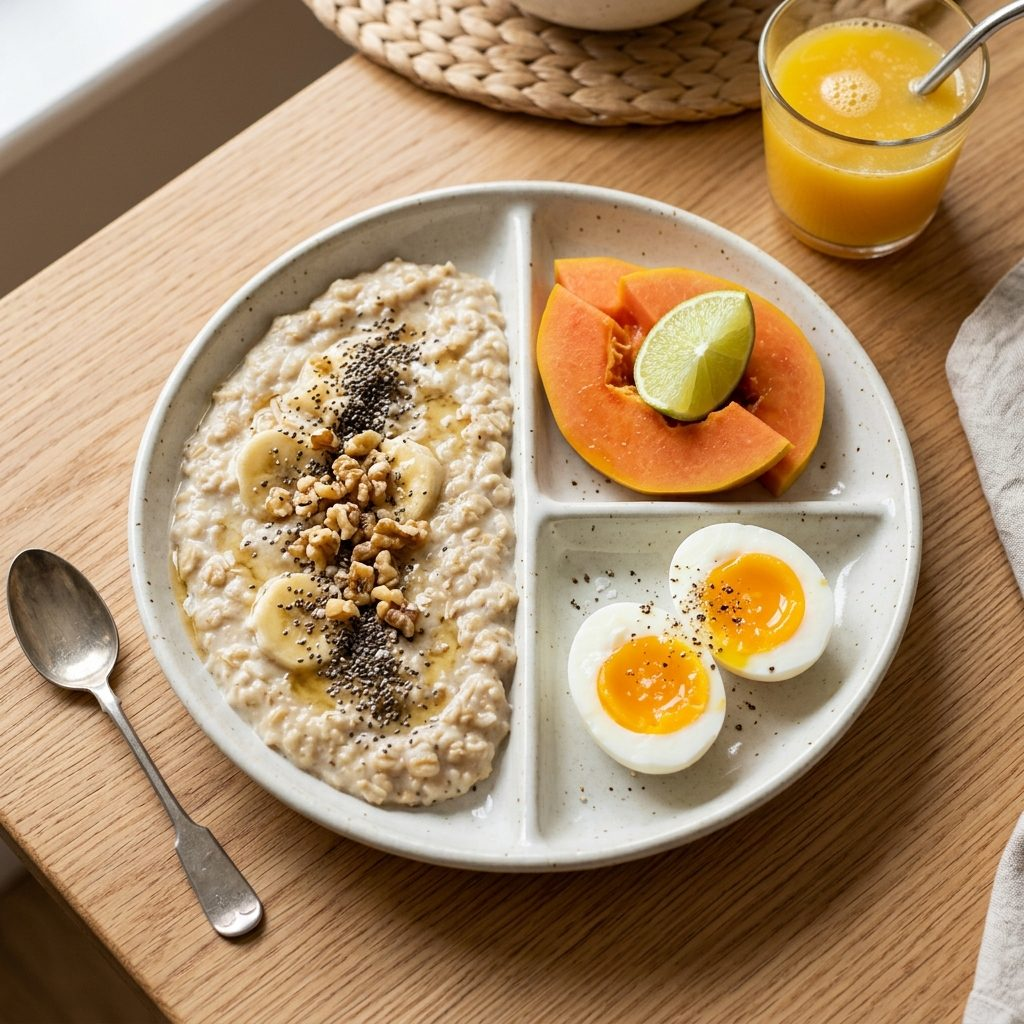
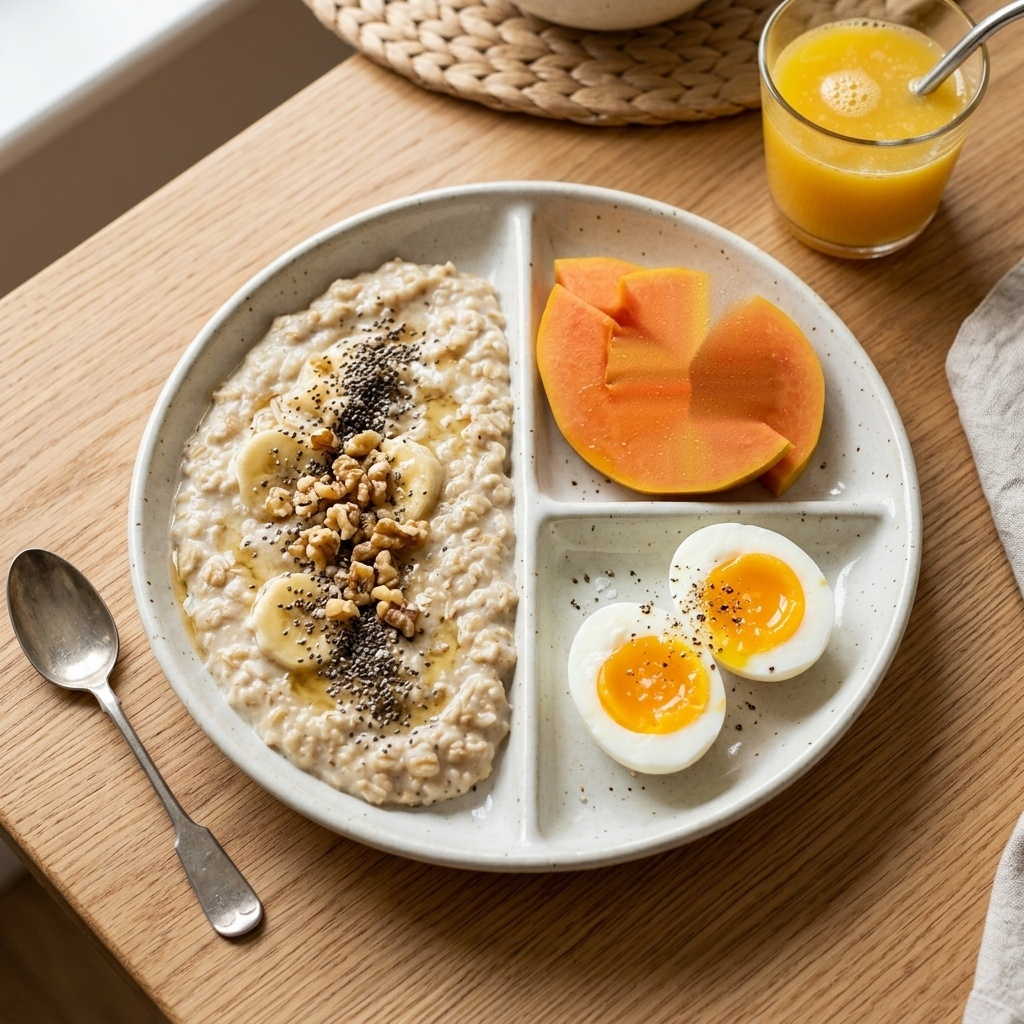
fix(recipe): remove acidic lime from ulcer-safe green banana porridge plate and replace with pure papaya

Changed region(s): [[0.5938, 0.25, 0.75, 0.4688]]

diff --git a/src/app/pages/Recipe.tsx b/src/app/pages/Recipe.tsx
@@ -223,7 +223,7 @@ const MASTER_RECIPES: FullRecipe[] = [
     "plateComposition": {
       "staple": "Grated Green Banana & Oat Porridge with Chia",
       "staplePct": 50,
-      "greens": "Fresh Papaya Fruit Slices & Lime",
+      "greens": "Fresh Pawpaw (Papaya) Slices",
       "greensPct": 25,
       "protein": "Soft-Boiled Egg Halves",
       "proteinPct": 25

diff --git a/public/sw.js b/public/sw.js
@@ -3,7 +3,7 @@
  * 100% Guaranteed Offline SPA Shell + Cache-First Static Assets
  */
 
-const CACHE_NAME = 'mealoptimiza-pwa-v9.0-perfect-ingredient-plate-alignment';
+const CACHE_NAME = 'mealoptimiza-pwa-v9.1-ulcer-safe-papaya-no-lemon';
 
 const PRECACHE_ASSETS = [
   '/',
